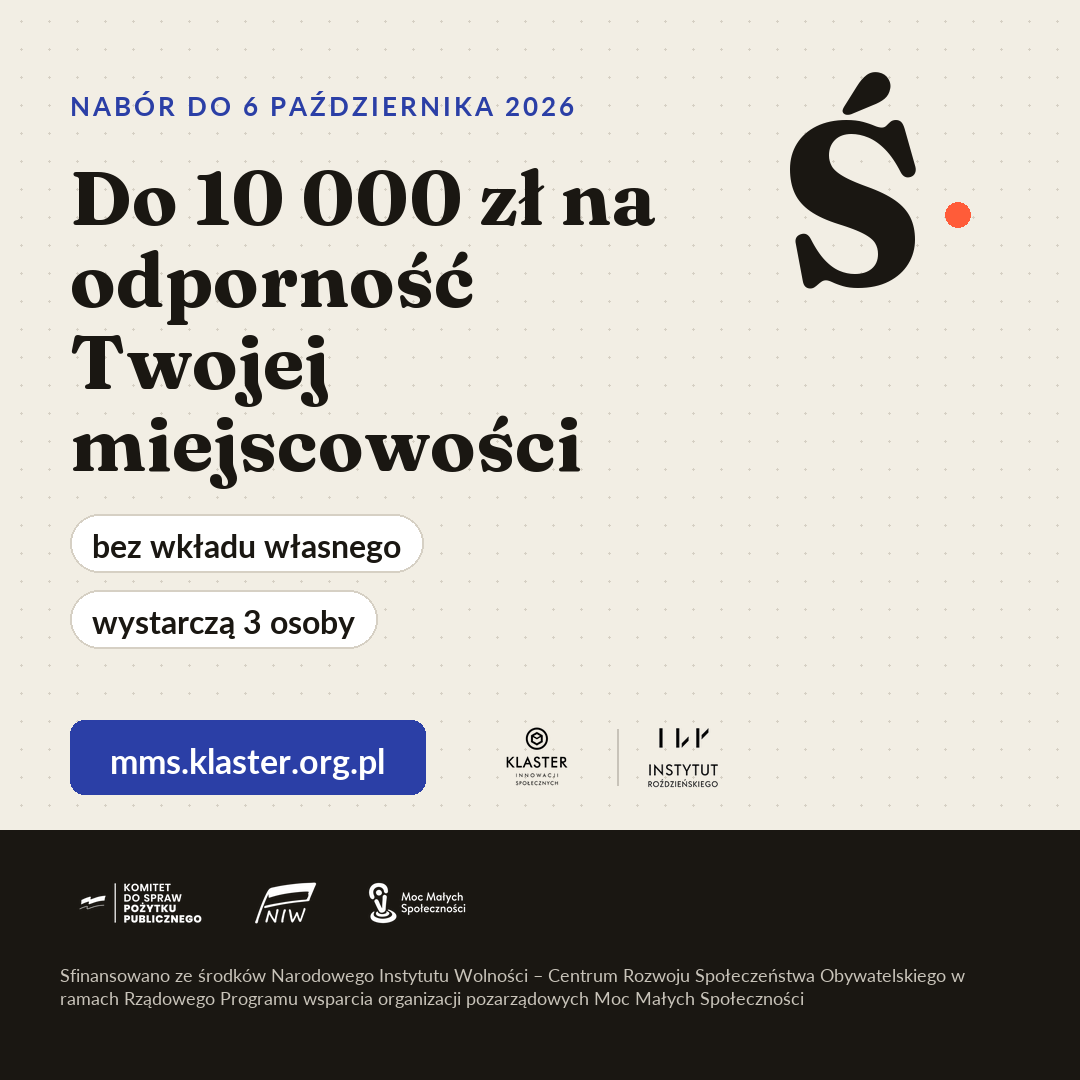
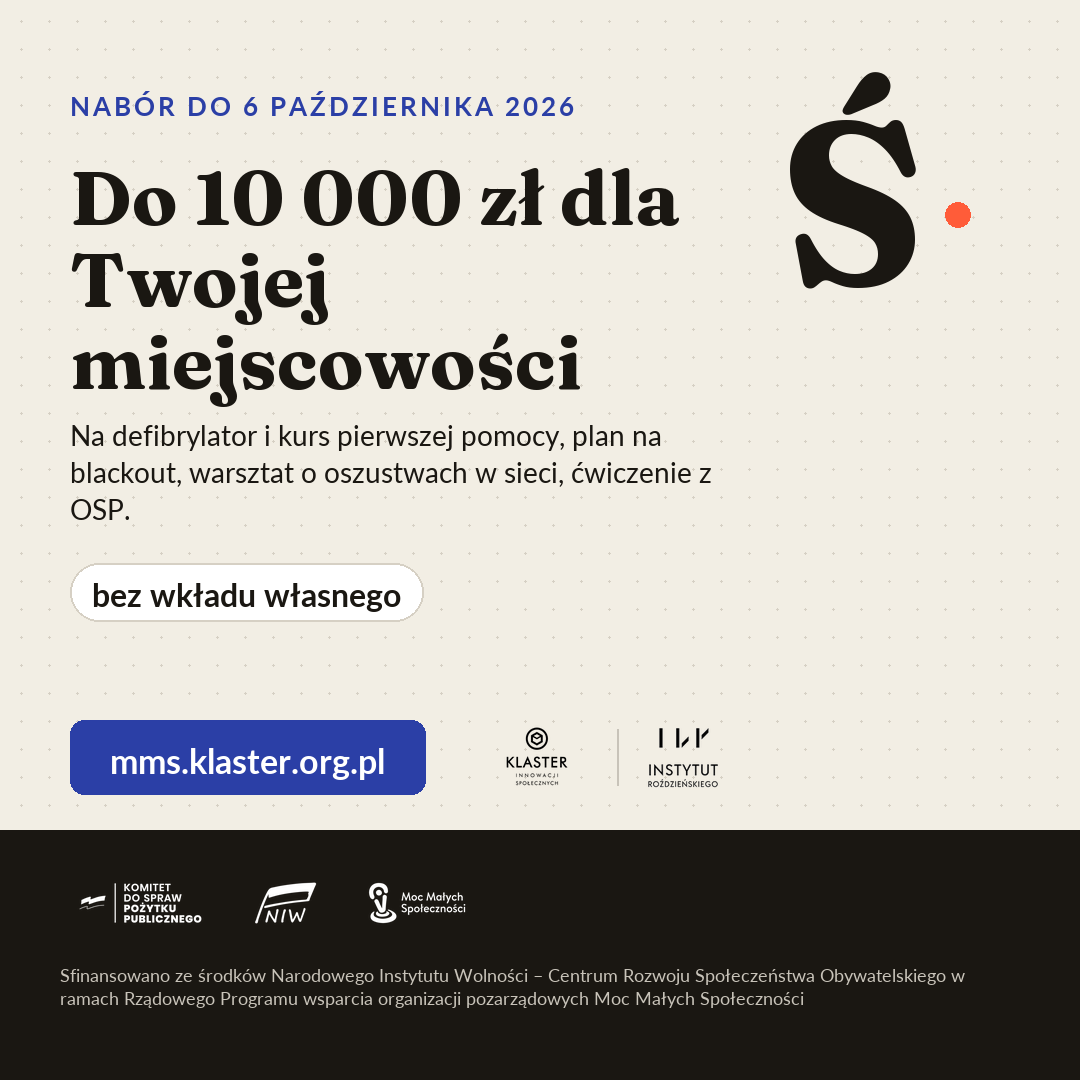
Reklamy Meta: haslo 'Do 10 000 zl dla Twojej miejscowosci' z konkretami

Changed region(s): [[0.0611, 0.2139, 0.6417, 0.6111], [0.5194, 0.1528, 0.6417, 0.2139]]

diff --git a/promocja/reklamy/grafiki_reklamy.py b/promocja/reklamy/grafiki_reklamy.py
@@ -49,8 +49,10 @@ def grafika(W, H, naglowek_sz, top, story=False):
     y = top
     etykieta(d, 70, y, "Nabór do 6 października 2026", sz=30 if story else 26)
     y += 70 if story else 60
-    y = tekst_lam(d, 70, y, "Do 10 000 zł na odporność Twojej miejscowości", f_fraunces(naglowek_sz, 700), TUSZ, W - 140 - (0 if story else sz + 40), lh=int(naglowek_sz * 1.08))
-    y += 36
+    y = tekst_lam(d, 70, y, "Do 10 000 zł dla Twojej miejscowości", f_fraunces(naglowek_sz, 700), TUSZ, W - 140 - (0 if story else sz + 40), lh=int(naglowek_sz * 1.08))
+    y += 22
+    y = tekst_lam(d, 70, y, "Na defibrylator i kurs pierwszej pomocy, plan na blackout, warsztat o oszustwach w sieci, ćwiczenie z OSP.", f_lato(34 if story else 28), TUSZ, W - 140 - (0 if story else sz + 40), lh=int((34 if story else 28) * 1.35))
+    y += 34
     f = f_lato(36 if story else 32, bold=True)
     chipy = ["bez wkładu własnego", "wystarczą 3 osoby", "wniosek w całości online", "miejscowości do 100 tys. mieszkańców"]
     for t in chipy:
